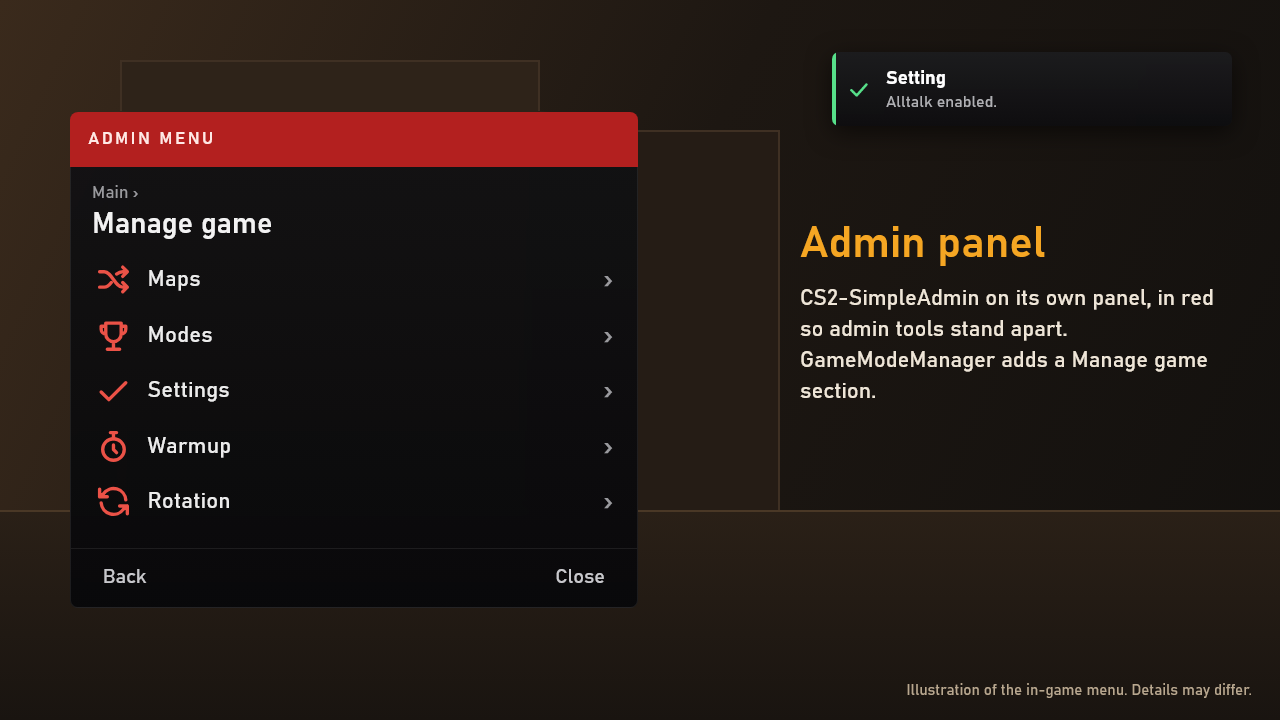
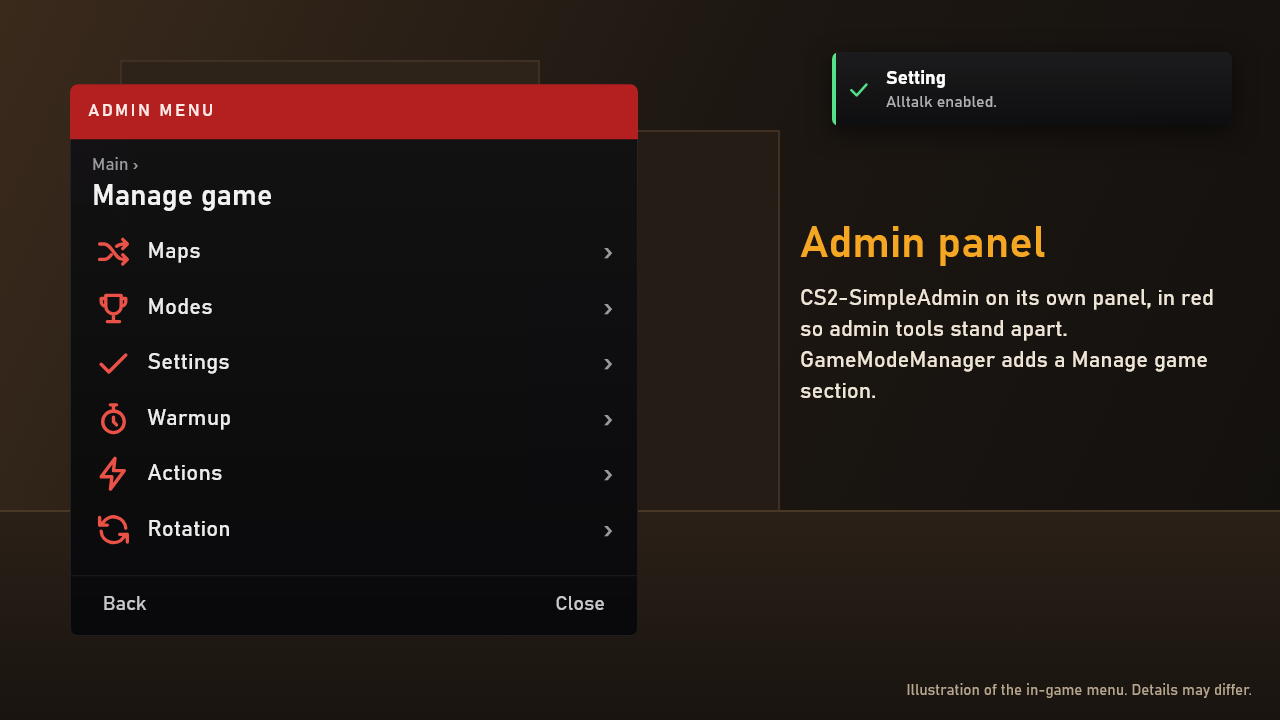
docs: 2.4 features in the README (actions, Rounds page, MatchZy, sv_cheats settings), the bundled settings list, Settings.Hidden, and the admin panel pictures with Actions and a Rounds page

Changed region(s): [[0.0312, 0.0917, 0.5, 0.7639], [0.0625, 0.7944, 0.5, 0.8861]]

diff --git a/addon/mockups/scenes.html b/addon/mockups/scenes.html
@@ -69,6 +69,7 @@ html,body{width:1280px;height:720px;overflow:hidden;background:#12100e;font-fami
 .sa .ico{width:28px;height:28px;margin-right:12px;flex:none;color:#eb5247}
 .sa .pill{flex:none;width:50px;height:24px;line-height:24px;text-align:center;border-radius:4px;font-size:13px;font-weight:600;letter-spacing:1px}
 .sa .pill.on{background:#2f4a22;color:#a6d86a}.sa .pill.off{background:#ffffff14;color:#b0b0b4}
+.sa .rw.dim span{color:#ffffff59}
 .sa .val{flex:none;font-size:15px;color:#b0b0b4;margin-right:8px}
 .sa .bot{display:flex;justify-content:space-between;padding:12px 24px 14px;font-size:15px;color:#c8c8cc;border-top:1px solid #ffffff14}
 .nv{width:400px;background:linear-gradient(180deg,rgba(74,74,76,.9),rgba(58,58,60,.92));border-radius:3px;box-shadow:0 8px 30px #0008;color:#f2f2f2;font-size:20px;backdrop-filter:blur(4px)}.nv .nh{display:flex;align-items:center;gap:10px;height:54px;padding:0 16px;background:#0000002a;color:#d8d8da;font-size:18px}.nv .nh img{width:34px;height:34px;flex:none}.nv .nq{display:flex;padding:18px 18px 0;min-height:118px}.nv .nq .q{flex:1;line-height:1.3;padding-top:10px}.nv .nr{display:flex;flex-direction:column;gap:12px;align-items:flex-end}.nv .nr div{display:flex;align-items:center;gap:8px;font-size:28px;font-weight:700}.nv .yes i{width:40px;height:40px;border-radius:6px;background:#4c9a2a;display:flex;align-items:center;justify-content:center}.nv .no i{width:40px;height:40px;border-radius:20px;background:#e8473c;display:flex;align-items:center;justify-content:center}.nv .nr svg{width:26px;height:26px}.nv .yes b{color:#5cb83a;width:22px}.nv .no b{color:#ff5a4d;width:22px}.nv .nf{display:flex;justify-content:space-between;padding:26px 18px 18px;font-size:18px;color:#e6e6e8}.nv .nf .k1{color:#5cd65c}.nv .nf .k2{color:#ff6b5e}.sa .pc{font-size:13px;letter-spacing:1px;font-weight:600;color:#ffe9e6}.sa .bot .nx{margin-left:30px}.ntf .ni img{width:20px;height:20px;display:block;margin:0 auto}</style></head>
@@ -100,6 +101,7 @@ admin:{h:'Admin panel',p:'CS2-SimpleAdmin on its own panel, in red so admin tool
   ['Modes','<path d="M8 21h8M12 17v4M7 4h10v7a5 5 0 0 1-10 0zM7 6H4v2a3 3 0 0 0 3 3M17 6h3v2a3 3 0 0 1-3 3"/>'],
   ['Settings','<path d="M4 13l5 5L20 7"/>'],
   ['Warmup','<circle cx="12" cy="14" r="7"/><path d="M12 11v3l2 2M10 3h4M12 3v4"/>'],
+  ['Actions','<path d="M13 2L4 14h7l-1 8 9-12h-7z"/>'],
   ['Rotation','<path d="M20 11a8 8 0 0 0-14.500-4L3 9M3 4v5h5M4 13a8 8 0 0 0 14.500 4L21 15M21 20v-5h-5"/>']
  ].map(function(r){return '<div class="rw"><svg class="ico" viewBox="0 0 24 24" fill="none" stroke="currentColor" stroke-width="2.200" stroke-linecap="round" stroke-linejoin="round">'+r[1]+'</svg><span>'+r[0]+'</span><div class="ar">&rsaquo;</div></div>'}).join('')+'</div><div class="bot"><span>Back</span><span>Close</span></div></div>'}
 ,rotation:{h:'Rotation settings',p:'Turn map rotation, mode rotation, and RTV and nominate on or off from the admin panel, and choose how often modes change and whether the mode is picked at random or by a vote. Changes last until the server restarts.',
@@ -112,6 +114,15 @@ admin:{h:'Admin panel',p:'CS2-SimpleAdmin on its own panel, in red so admin tool
   '<div class="rw"><span>RTV / Nominate</span><div class="pill on">ON</div></div>'+
   '<div class="rw"><span>Rotate when empty</span><div class="pill off">OFF</div></div>'+
   '</div><div class="bot"><span>Back<span class="nx">Next</span></span><span>Close</span></div></div>'}
+,rounds:{h:'Rounds',p:'Pause and unpause the match, call a team timeout, or replay a round from the game\'s backups. The pause row shows the match\'s state, and rows that can\'t be used right now are greyed out. During a MatchZy match they use MatchZy\'s own commands.',
+ m:'<div class="sa"><div class="hd"><div class="brand">ADMIN MENU</div></div><div class="tl"><div class="cr">Manage game &rsaquo; Actions &rsaquo;</div><div class="tt">Rounds</div></div><div class="list">'+
+  '<div class="rw"><span>Unpause match</span></div>'+
+  '<div class="rw dim"><span>CT timeout</span></div>'+
+  '<div class="rw dim"><span>T timeout</span></div>'+
+  '<div class="rw"><span>Replay this round</span></div>'+
+  '<div class="rw"><span>Replay last round</span></div>'+
+  '<div class="rw"><span>Go back to round</span><div class="ar">&rsaquo;</div></div>'+
+  '</div><div class="bot"><span>Back</span><span>Close</span></div></div>'}
 ,native:{h:'Native vote panel',p:'With Votes.Style set to native, map and mode votes use the game\'s own F1/F2 panel. It shows who started the vote, with the game\'s change level icon. Setting votes stay on the menu.',
[1 lines of base64/hex data omitted]
 };

diff --git a/README.md b/README.md
@@ -10,7 +10,10 @@ Tired of manually managing game modes, settings, and maps?
 
 GameModeManager simplifies server administration for Counter-Strike 2 by providing:
 
-- **Admin menus** for modes, maps, settings and warmup. If [CS2-SimpleAdmin](https://github.com/daffyyyy/CS2-SimpleAdmin) is installed, its admin menu gets them too (optional).
+- **Admin menus** for modes, maps, settings, actions and warmup. If [CS2-SimpleAdmin](https://github.com/daffyyyy/CS2-SimpleAdmin) is installed, its admin menu gets them too (optional).
+- **Settings and actions from your own cfg files**: on/off settings, settings with a choice of values (Round time, Bot count), and one-off actions (Add bot CT, Swap teams). A comment header names and groups them, and each menu shows what's on now. Settings that need a restart or the next round offer to apply now, and ones that turn `sv_cheats` on ask first.
+- **Rounds page**: pause and unpause, team timeouts, and replaying or going back to a round from the game's backups.
+- **Works with [MatchZy](https://github.com/shobhit-pathak/MatchZy) and SharpTimer**: a `!matchzy` menu, MatchZy's own pause and restore during a match, and settings that would clash are hidden while it's loaded.
 - **Customizable rotation** of maps and game modes, with mode schedules.
 - **Player voting** for settings and game modes.
 - **Per-mode map pools** for [GG1MapChooser](https://github.com/ssypchenko/GG1MapChooser): RTV, nominate and map votes only offer the current mode's maps.
@@ -98,7 +101,12 @@ If you use [CS2-SimpleAdmin](https://github.com/daffyyyy/CS2-SimpleAdmin), its a
 | Manage game | Rotation |
 | :-: | :-: |
 | ![Manage game section of the admin menu](docs/images/admin.png) | ![Rotation page of the admin menu](docs/images/admin-rotation.png) |
-| Change or vote on maps and modes, turn settings on and off, and control warmup. | Turn map rotation, mode rotation, and RTV and nominate on or off, and choose how often modes change. These changes last until the server restarts. |
+| Change or vote on maps and modes, turn settings on and off, run actions, and control warmup. While MatchZy is loaded, a MatchZy entry is added. | Turn map rotation, mode rotation, and RTV and nominate on or off, and choose how often modes change. These changes last until the server restarts. |
+
+| Rounds |
+| :-: |
+| ![Rounds page of the admin menu](docs/images/admin-rounds.png) |
+| Pause and unpause, team timeouts, and replaying or going back to a round, under Actions. |
 
 - **Polls:** with SimpleAdmin, `!vote` asks players a question. One or two words make a yes/no vote, and with more, the first is the question and the rest are its answers: `!vote "Best map?" Mirage Inferno Nuke`.
 - **To get the red panel shown here:** install the optional [PMM_SimpleAdmin](https://github.com/RRimmer/PMM_SimpleAdmin) plugin, which isn't in the zip, then restart the server fully. Its menu files are already in GameModeManager's Workshop addon, so players don't need anything extra. Without it, the same items appear in SimpleAdmin's normal menus.
@@ -142,6 +150,7 @@ Their licenses are in their folders, and the links above have their source. Thei
 | `css_mapvote_auto <true\|false>` | Turns the automatic end-of-map vote on or off for the current mode (for mode cfgs).                      |
 | `css_mapvote_extend <true\|false>` | Offers "extend map" in map votes or not for the current mode (for mode cfgs).                            |
 | `css_mapvote_rtv <true\|false>` | Turns `!rtv` and `!nominate` on or off for the current mode. Put it in the mode's `<mode>_settings.cfg`. A new mode starts with it on. |
+| `css_replace_bots` | For a setting's cfg: kicks the bots and adds the same number back, so settings that only apply to new bots (like `bot_difficulty`) apply to all of them. |
 | `css_gmm_status` | Shows what GameModeManager found on the server: plugins, map list, Workshop addon and settings. Include it in bug reports. |
 
 </details>
@@ -159,8 +168,8 @@ Their licenses are in their folders, and the links above have their source. Thei
 | `!mode <mode name> [map]` | Changes the game mode to the mode specified. For example, for **mg_surf** you would do **!mode surf**. Add a map from that mode's list to start on it, like **!mode surf surf_beginner**. |    
 | `!warmup` | Displays an admin menu to start, schedule or end warmup.                                                               |
 | `!timelimit <true\|false> <seconds>` | Sets the time limit for the current map.                                                                               |
-| `!setting <enable\
-| `!setting set <setting name> <value>` | Sets a value setting, like **!setting set "Round time" "5 minutes"**. See the FAQ, "How do I add custom settings?" ||disable> <setting name>` | Enables or disables a custom game setting. For example, for **enable_movement_unlock.cfg** you would do **!setting movement_unlock**. |
+| `!setting <enable\|disable> <setting name>` | Enables or disables a custom game setting. For example, for **enable_movement_unlock.cfg** you would do **!setting enable movement_unlock**. |
+| `!setting set <setting name> <value>` | Sets a value setting, like **!setting set "Round time" "5 minutes"**. See the FAQ, "How do I add custom settings?" |
 
 </details>
 
@@ -179,7 +188,8 @@ Their licenses are in their folders, and the links above have their source. Thei
 | `!changemode` | Menu of modes; picking one starts a yes/no vote to change to it.         |
 | `!changesetting` | Menu of settings, each shown as on or off; pick one to start a vote on turning it the other way.     |
 | `!ready` / `!unready` | In a warmup with ready-up (`Warmup.Ready`): says you're ready, or not any more. The warmup ends once enough players are. |
-| `!actions` | Menu of actions: replaying a round, and the cfgs in `cfg/actions/`, like adding a bot. Admins run them; players see only the ones they can run or vote on. |
+| `!actions` | Menu of actions: the Rounds page (pause, timeouts, replaying a round) and the cfgs in `cfg/actions/`, like adding a bot. Admins run them; players see only the ones they can run or vote on. |
+| `!matchzy` | While [MatchZy](https://github.com/shobhit-pathak/MatchZy) is loaded: its practice tools in practice, your match commands otherwise (ready, pause, timeouts, coach), and Match controls for admins with `@css/config`. |
 
 RTV, nominate (the current mode's maps), next map and time left come from GG1MapChooser: `!rtv`, `!nominate`, `!nextmap`, `!timeleft`.
 

diff --git a/docs/wiki/FAQ-(Frequently-Asked-Questions).md b/docs/wiki/FAQ-(Frequently-Asked-Questions).md
@@ -40,7 +40,7 @@ sv_autobunnyhopping 1
 mp_roundtime 5
 ```
 
-Files that share a `setting:` name are one row with a dropdown of their values, in file name order, so name them to sort the way you want them listed (`roundtime_02.cfg`, `roundtime_05.cfg`, `roundtime_10.cfg`). The current value is the file the server matches best. Any of the files can have `permission:` or `vote: false`. A setting needs at least two values. Set one from chat with `!setting set "Round time" "5 minutes"`.
+Files that share a `setting:` name are one row with a dropdown of their values, in file name order, so name them to sort the way you want them listed (`roundtime_02.cfg`, `roundtime_05.cfg`, `roundtime_10.cfg`). The current value is the file the server matches best. When none matches (Kus's Start money is 800, between the files' values), the row shows the live value of the ConVar every file sets, so it's never blank. Any of the files can have `permission:` or `vote: false`. A setting needs at least two values. Set one from chat with `!setting set "Round time" "5 minutes"`.
 
 Files in the settings folder without a prefix or a `setting:` header are helpers that other cfgs run, and aren't shown.
 
@@ -51,9 +51,9 @@ Files in the settings folder without a prefix or a `setting:` header are helpers
 - **Players:** Alltalk, Knife drop, Team collision, Free for all, Spectate enemies, and the value Gravity
 - **Movement:** Auto bunny hop, Movement unlock
 - **Bots:** Bots, and the values Bot difficulty and Bot count
-- **Practice:** Grenade trajectory
-- **Fun:** Scoutz
+- **Practice:** Grenade trajectory, and these, which leave `sv_cheats` on (an admin confirms first, and players can't vote on them): Cheats (`sv_cheats` itself: turning it off ends every cheat at once), Infinite ammo, Bullet impacts, Bots stand still, Bots don't shoot, Bots ignore players
 
+**Leaving a cfg out.** `Settings.Hidden` in `GameModeManager.json` lists settings to leave out, by their name or their file name without `enable_`/`disable_`: `"Hidden": [ "surf", "course" ]`. For cfgs in the settings folder that are really modes, like Kus's `enable_surf.cfg`.
 </details>
 
 <details>

diff --git a/docs/wiki/Configuration.md b/docs/wiki/Configuration.md
@@ -43,7 +43,8 @@
   },
   "Settings": {
     "Enabled": true,
-    "Folder": "settings"
+    "Folder": "settings",
+    "Hidden": []
   },
   "Actions": {
     "Enabled": true,
@@ -496,6 +497,7 @@ Messages to everyone stay in chat.
 | ------------------- | ----------------------------------------------------------------------------------------------------------------------------------------- |
 | Enabled             | Enables custom game settings.                                                                                                             |
 | Folder              | Default settings folder within `/csgo/cfg/`.                                                                                              |
+| Hidden              | Settings left out, by name or by file name without `enable_`/`disable_`, like `[ "surf", "course" ]`: cfgs in the settings folder that are really modes. |
 
 # Action Settings
 | Setting             | Description                                                                                                                               |
